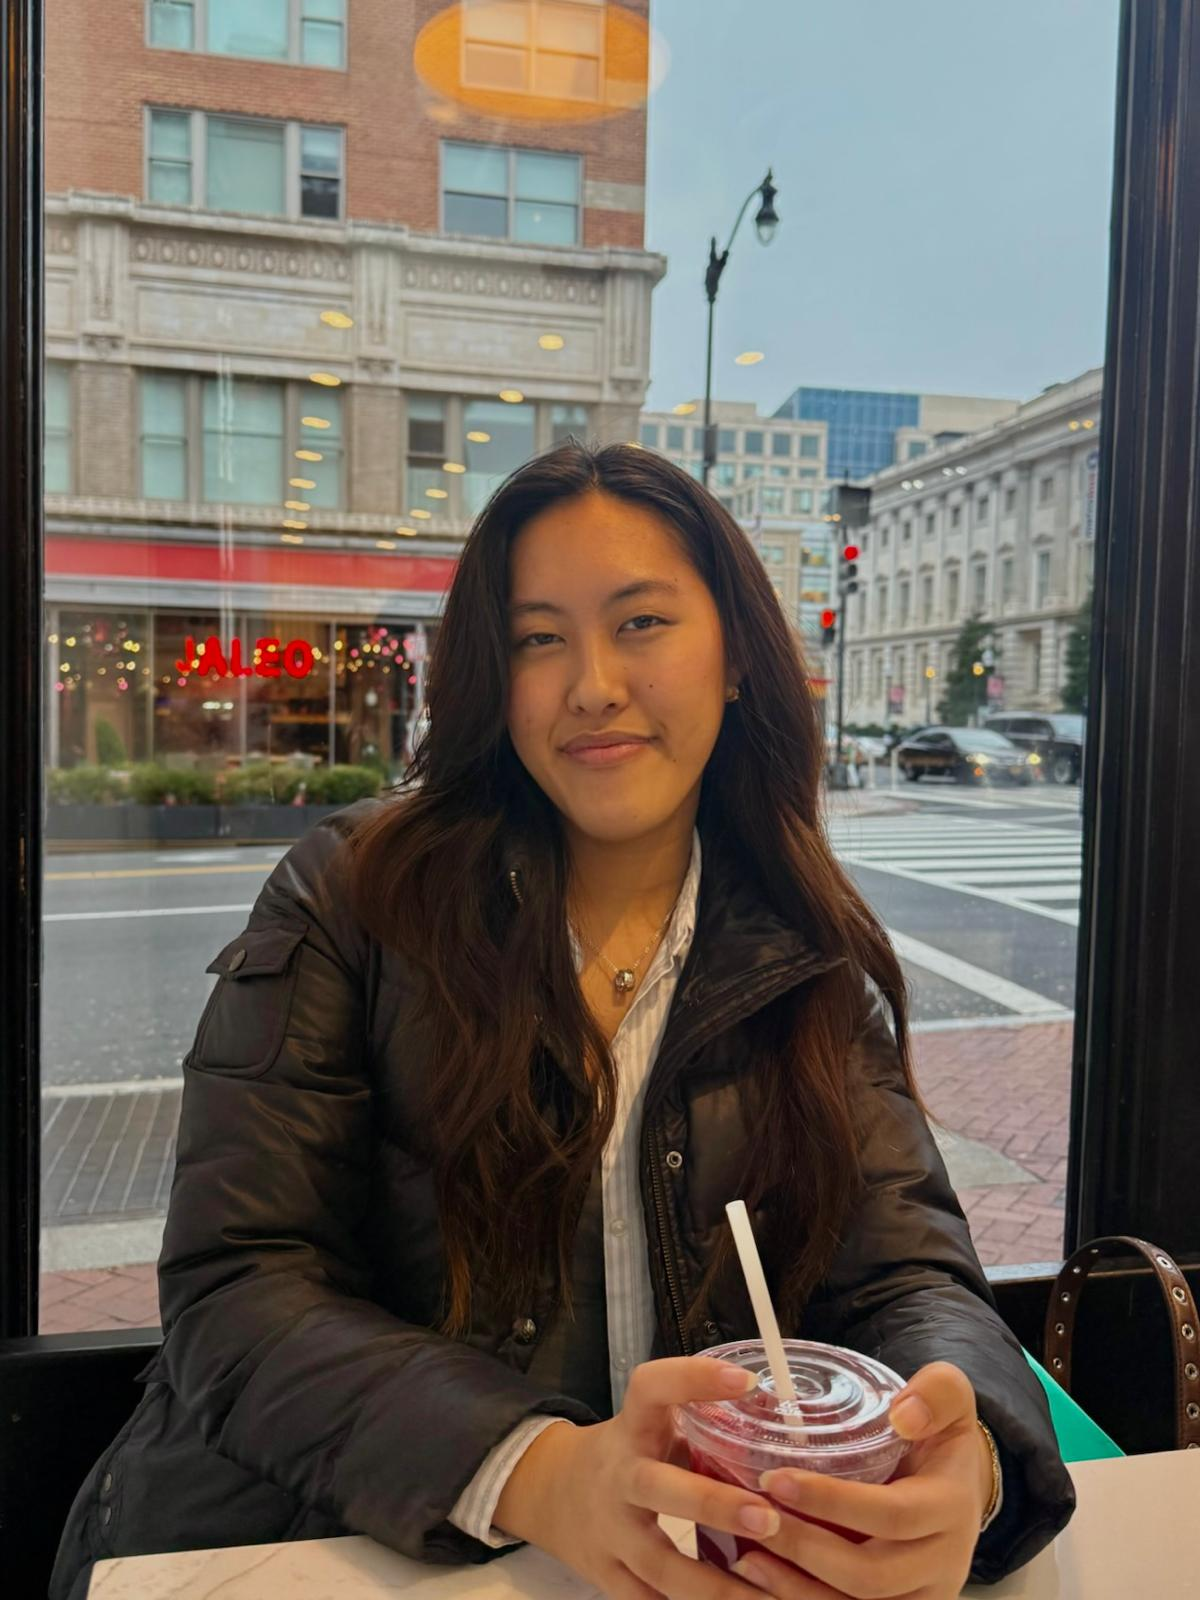
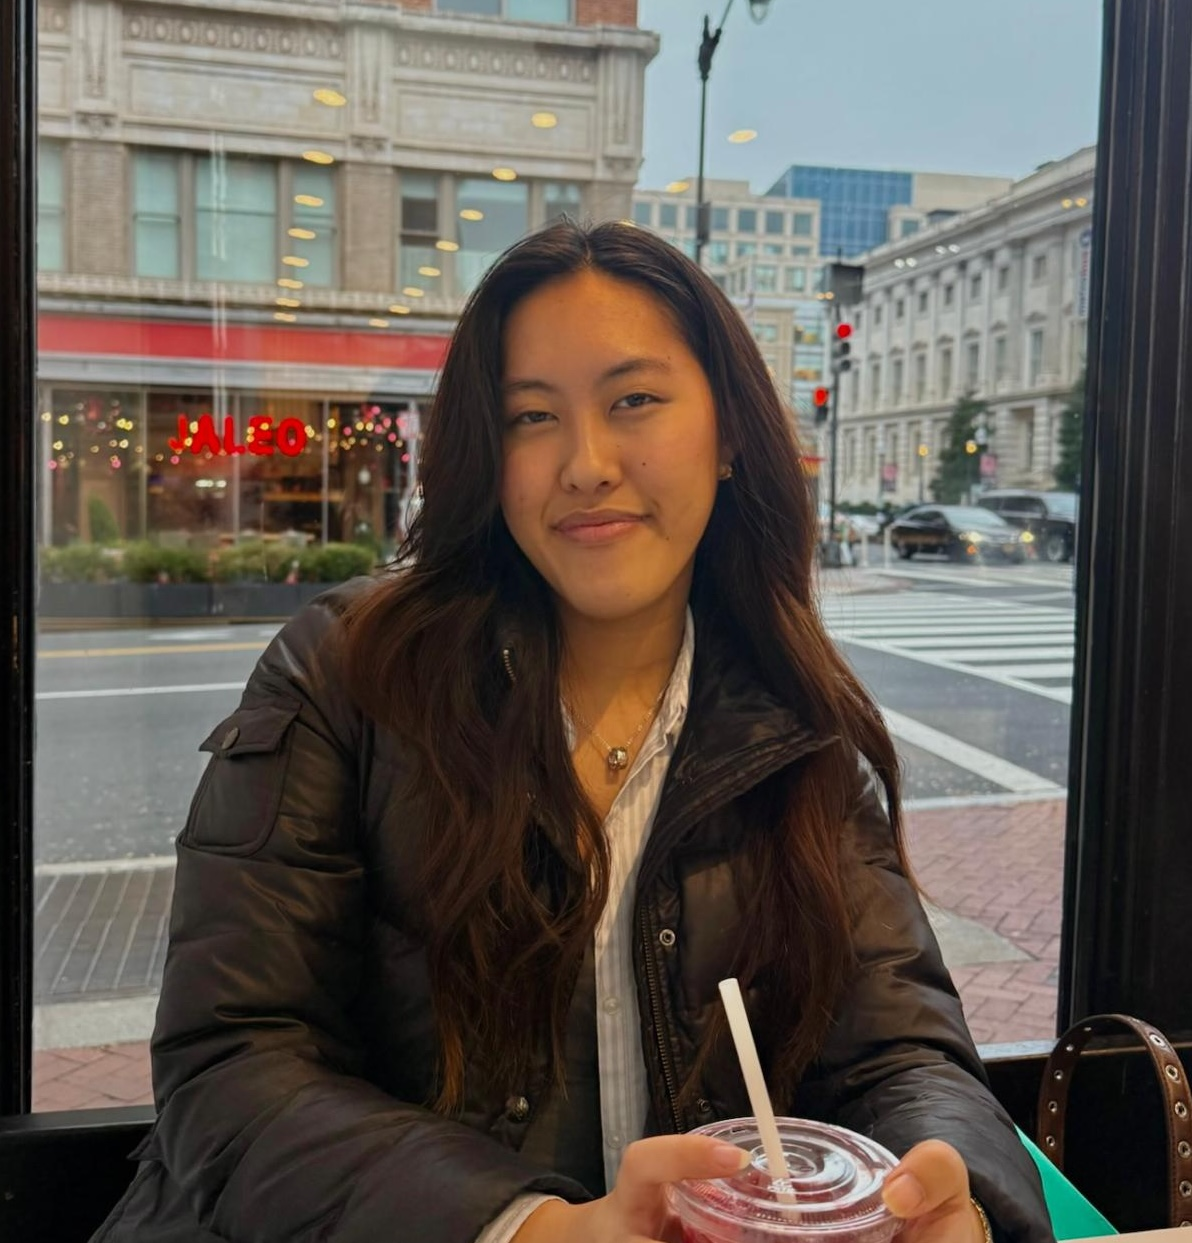
so much work

diff --git a/online-portfolio/style.css b/online-portfolio/style.css
@@ -2,39 +2,81 @@
  * Red: #cf4a4a
  * Gray: #383838
  * Beige: #e7e7d8*/
-    
-.section-one{background-color:#383838;}
 
-h1 {font-family: "Ballet", cursive;
-font-size: 140px;
-text-align: center;
-color:#e7e7d8;
-padding-top: 100px;
+.section-one {
+    background-color: #383838;
+    padding-bottom: 80px;
 }
 
-h2 {font-family: "Bebas Neue", sans-serif;
-font-size: 170px;
-text-align: center;
-color:#cf4a4a;}
-
-button{font-family: "Bebas Neue", sans-serif}
-
-#headshot{width: 100%;
+.nav{
+    text-align: center;
+    color: #e7e7d8;
 }
 
+hr{border: 2px solid #cf4a4a;
+    width: 100%;opacity: 1;}
 
-.section-two{background-color: #e7e7d8}
+.col-sm-7 {
+    text-align: center;
+}
 
-h3{font-family: "Bebas Neue", sans-serif;
-font-size: 170px;
-color:#cf4a4a;
-padding-top: 30px}
+h1 {
+    font-family: "Ballet", cursive;
+    font-size: 140px;
+    text-align: center;
+    color: #e7e7d8;
+    padding-top: 120px;
+    margin-bottom: 0;
+}
+
+h2 {
+    font-family: "Bebas Neue", sans-serif;
+    font-size: 170px;
+    text-align: center;
+    color: #cf4a4a;
+    margin-top: -50px;
+}
+
+button {
+    font-family: "Bebas Neue", sans-serif;
+    text-align: center;
+    font-size: 40px;
+    background-color: #e7e7d8;
+    color: #383838;
+    border-radius: 20px;
+    width: 300px;
+}
+
+#headshot {
+    width: 90%;
+    margin-top: 100px;
+}
+
+#section-two {
+    background-color: #e7e7d8;
+}
+
+h3 {
+    font-family: "Bebas Neue", sans-serif;
+    font-size: 120px;
+    color: #cf4a4a;
+    padding: 30px;
+    margin-bottom: -20px
+}
+
+.job-title{padding-left: 60px;
+margin-bottom:60px}
 
 
-.section-three{background-color:#383838}
 
-h4{font-family: "Bebas Neue", sans-serif;
-font-size: 170px;
-color:#cf4a4a;
-padding-top: 30px}
+#section-three {
+    background-color: #383838;
+}
 
+#section-four {
+    background-color: #e7e7d8;
+}
+
+h4{color:#383838}
+h5{color:#383838}
+h6{color:#383838}
